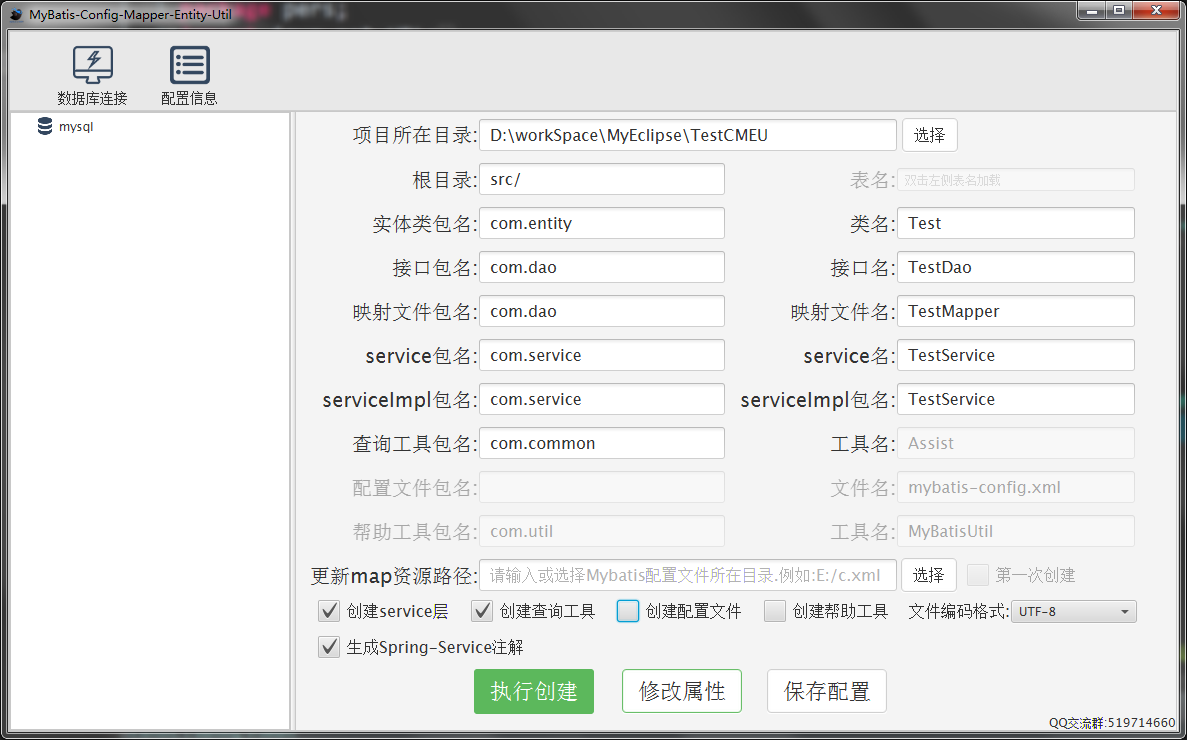
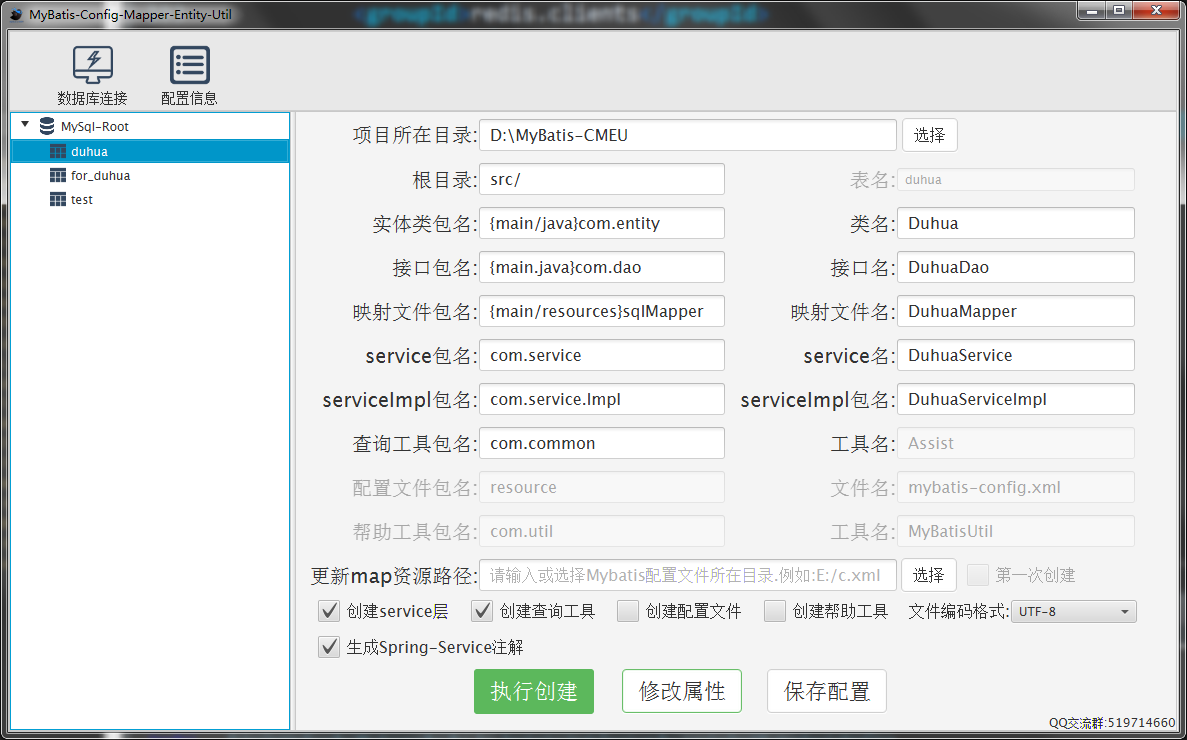
更新2.1的说明文档

diff --git a/index.html b/index.html
@@ -119,7 +119,7 @@
                 <h1 class="lineHeight center">程序主界面</h1>
                 <div class="center">
 
-                    <img src="resource/images/1.png" alt="index" width="890">
+                    <img src="resource/images/index.png" alt="index" width="890">
 
                 </div>
                 <h3>工具基本目录结构:</h3>
@@ -221,7 +221,7 @@
                 <div class="line"></div>
                 <h1 class="lineHeight center">首页使用说明</h1>
                 <div class="center">
-                    <img src="resource/images/1.png" alt="首页" width="890">
+                    <img src="resource/images/index.png" alt="首页" width="890">
                 </div>
                 <h3>数据库列表</h3>
                 <p class="indent">
@@ -238,8 +238,8 @@
                     <p class="indent">
                         占位符主要作用于类似Maven/Gradle等采用src/main/java等源码规范路径,假设我们生成的文件要放置在,src/maim/java
                         /com/cmeu/dao中,src/maim/java是源码路径,com/cmeu/dao是项目中的包,这时我们就可以这样写
-                        {src/maim/java}com.cmeu.dao或者{src.maim.java}com.cmeu.dao    ,CMEU生成的时候就会自动把{src/maim/java}
-                        识别成源码文件夹,把com.cmeu.dao识别为项目中的包,
+                        {maim/java}com.cmeu.dao或者{maim.java}com.cmeu.dao    ,CMEU生成的时候就会自动把{maim/java}
+                        识别成源码文件夹,把com.cmeu.dao识别为项目中的包,(src)已经在项目跟目录选择添加了,所以src可以不用再写
                     </p>
                     <h3>更新mapper资源路径: </h3>
                     <p class="indent">如果已经存在MyBatis配置文件,可以输入或者通过按钮选择MyBatis配置文件所在路径,系统将自动将你新建的映射文件自动更新到mappers中;<br/>
